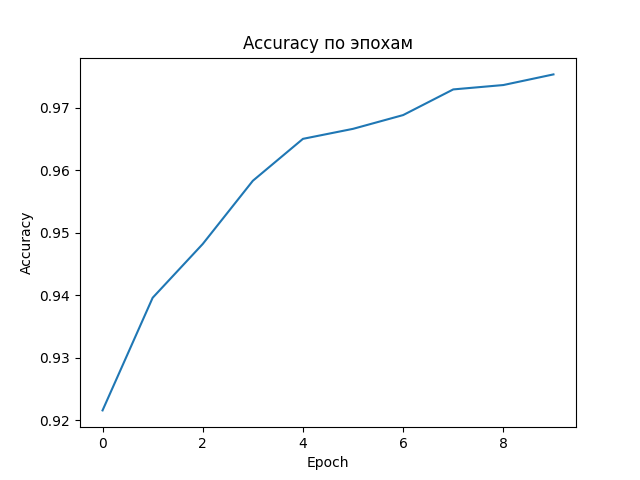
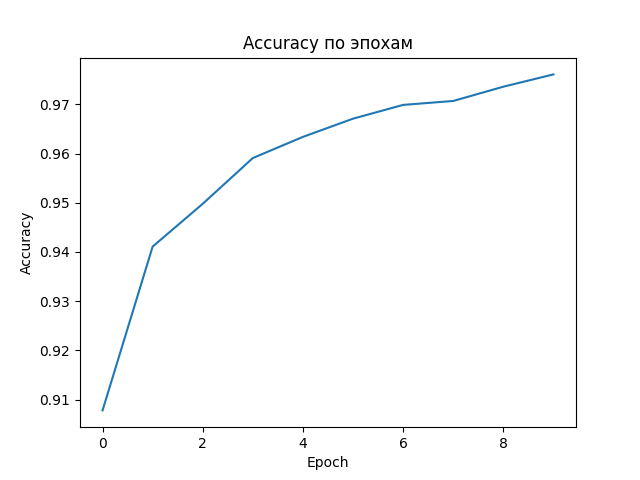
final2

diff --git a/IvanovF/2sem/task2/nn.py b/IvanovF/2sem/task2/nn.py
@@ -1,14 +1,19 @@
 import numpy as np
 
+INPUT_SIZE = 784
+HIDDEN_SIZE = 128
+OUTPUT_SIZE = 10
+DEFAULT_LR = 0.01
+WEIGHT_INIT_SCALE = 0.01
+
+
 class NeuralNetwork:
-    def __init__(self, input_size=784, hidden_size=128, output_size=10, lr=0.01):
+    def __init__(self, lr=DEFAULT_LR):
         self.lr = lr
-
-        self.W1 = np.random.randn(input_size, hidden_size) * 0.01
-        self.b1 = np.zeros((1, hidden_size))
-
-        self.W2 = np.random.randn(hidden_size, output_size) * 0.01
-        self.b2 = np.zeros((1, output_size))
+        self.W1 = np.random.randn(INPUT_SIZE, HIDDEN_SIZE) * WEIGHT_INIT_SCALE
+        self.b1 = np.zeros((1, HIDDEN_SIZE))
+        self.W2 = np.random.randn(HIDDEN_SIZE, OUTPUT_SIZE) * WEIGHT_INIT_SCALE
+        self.b2 = np.zeros((1, OUTPUT_SIZE))
 
     def relu(self, x):
         return np.maximum(0, x)
@@ -17,16 +22,14 @@ class NeuralNetwork:
         return (x > 0).astype(float)
 
     def softmax(self, x):
-        exp = np.exp(x - np.max(x, axis=1, keepdims=True))
-        return exp / np.sum(exp, axis=1, keepdims=True)
+        exp_x = np.exp(x - np.max(x, axis=1, keepdims=True))
+        return exp_x / np.sum(exp_x, axis=1, keepdims=True)
 
     def forward(self, X):
         self.Z1 = X @ self.W1 + self.b1
         self.A1 = self.relu(self.Z1)
-
         self.Z2 = self.A1 @ self.W2 + self.b2
         self.A2 = self.softmax(self.Z2)
-
         return self.A2
 
     def compute_loss(self, y_true, y_pred):
@@ -36,7 +39,6 @@ class NeuralNetwork:
 
     def backward(self, X, y_true):
         m = X.shape[0]
-
         y_one = np.zeros_like(self.A2)
         y_one[np.arange(m), y_true] = 1
 

diff --git a/IvanovF/2sem/task2/main.py b/IvanovF/2sem/task2/main.py
@@ -1,0 +1,59 @@
+import matplotlib.pyplot as plt
+import numpy as np
+
+from nn import NeuralNetwork
+from utils import load_data
+
+EPOCHS = 10
+BATCH_SIZE = 64
+LEARNING_RATE = 0.1
+LOSS_PLOT_PATH = "loss.png"
+ACC_PLOT_PATH = "accuracy.png"
+
+
+def main():
+    X_train, y_train, X_test, y_test = load_data()
+    model = NeuralNetwork(lr=LEARNING_RATE)
+
+    loss_history = []
+    acc_history = []
+
+    for epoch in range(EPOCHS):
+        perm = np.random.permutation(len(X_train))
+        X_train = X_train[perm]
+        y_train = y_train[perm]
+
+        for i in range(0, len(X_train), BATCH_SIZE):
+            X_batch = X_train[i:i + BATCH_SIZE]
+            y_batch = y_train[i:i + BATCH_SIZE]
+
+            model.forward(X_batch)
+            model.backward(X_batch, y_batch)
+
+        loss = model.compute_loss(y_train, model.forward(X_train))
+        acc = model.accuracy(X_test, y_test)
+
+        loss_history.append(loss)
+        acc_history.append(acc)
+
+        print(f"Epoch {epoch + 1}: loss={loss:.4f}, acc={acc:.4f}")
+
+    plt.figure()
+    plt.plot(loss_history)
+    plt.title("Loss по эпохам")
+    plt.xlabel("Epoch")
+    plt.ylabel("Loss")
+    plt.savefig(LOSS_PLOT_PATH)
+
+    plt.figure()
+    plt.plot(acc_history)
+    plt.title("Accuracy по эпохам")
+    plt.xlabel("Epoch")
+    plt.ylabel("Accuracy")
+    plt.savefig(ACC_PLOT_PATH)
+
+    print("Итоговая точность:", acc_history[-1])
+
+
+if __name__ == "__main__":
+    main()

diff --git a/IvanovF/2sem/task2/utils.py b/IvanovF/2sem/task2/utils.py
@@ -1,10 +1,13 @@
 import numpy as np
 from tensorflow.keras.datasets import mnist
 
+NORMALIZATION_FACTOR = 255.0
+
+
 def load_data():
     (X_train, y_train), (X_test, y_test) = mnist.load_data()
 
-    X_train = X_train.reshape(-1, 784) / 255.0
-    X_test = X_test.reshape(-1, 784) / 255.0
+    X_train = X_train.reshape(-1, 784) / NORMALIZATION_FACTOR
+    X_test = X_test.reshape(-1, 784) / NORMALIZATION_FACTOR
 
     return X_train, y_train, X_test, y_test

diff --git a/IvanovF/2sem/task2/train.py b/IvanovF/2sem/task2/train.py
@@ -1,3 +1,8 @@
+
+##перенесен в main
+
+
+
 import matplotlib.pyplot as plt
 from nn import NeuralNetwork
 from utils import load_data
